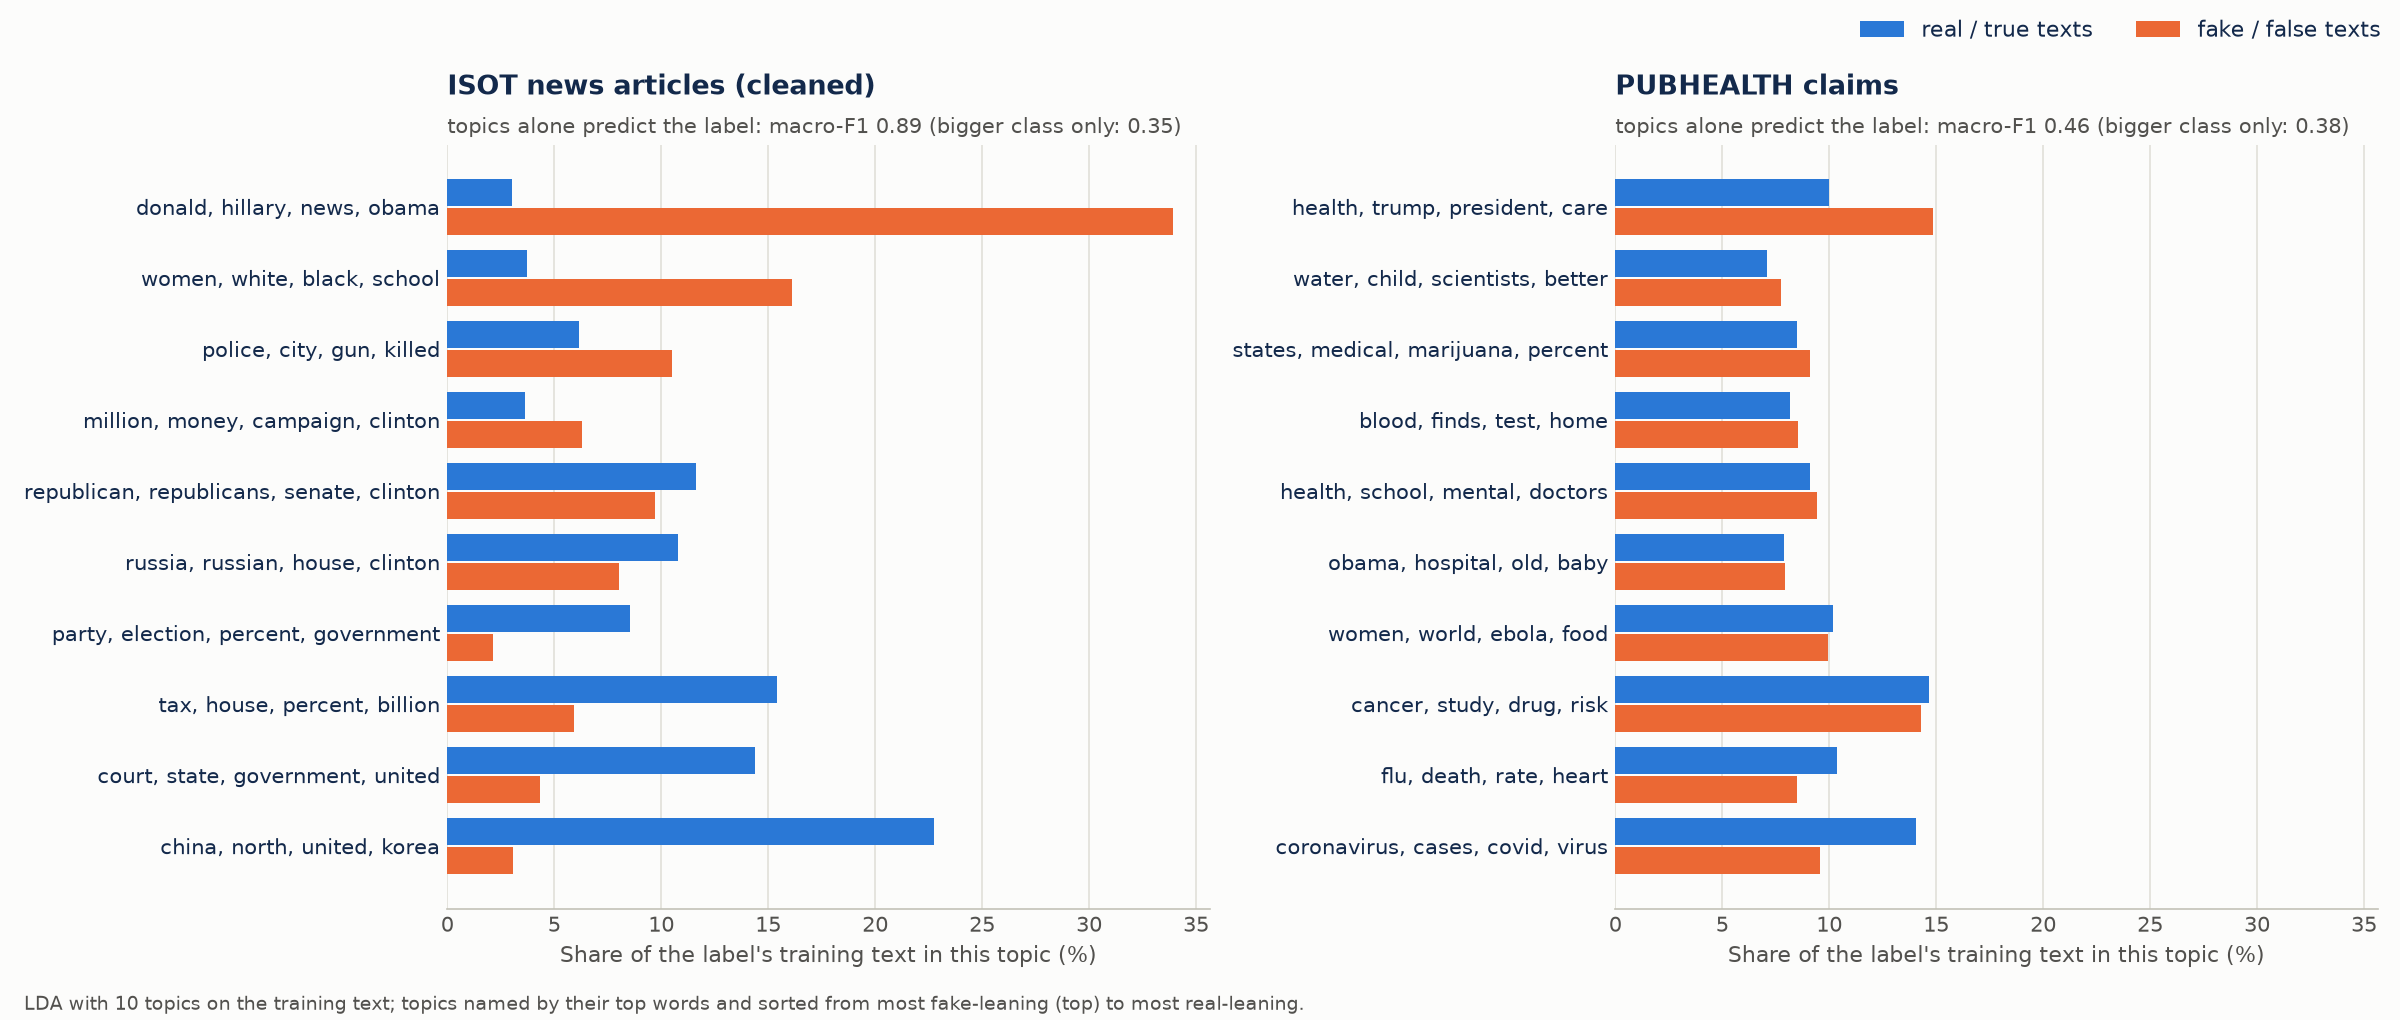
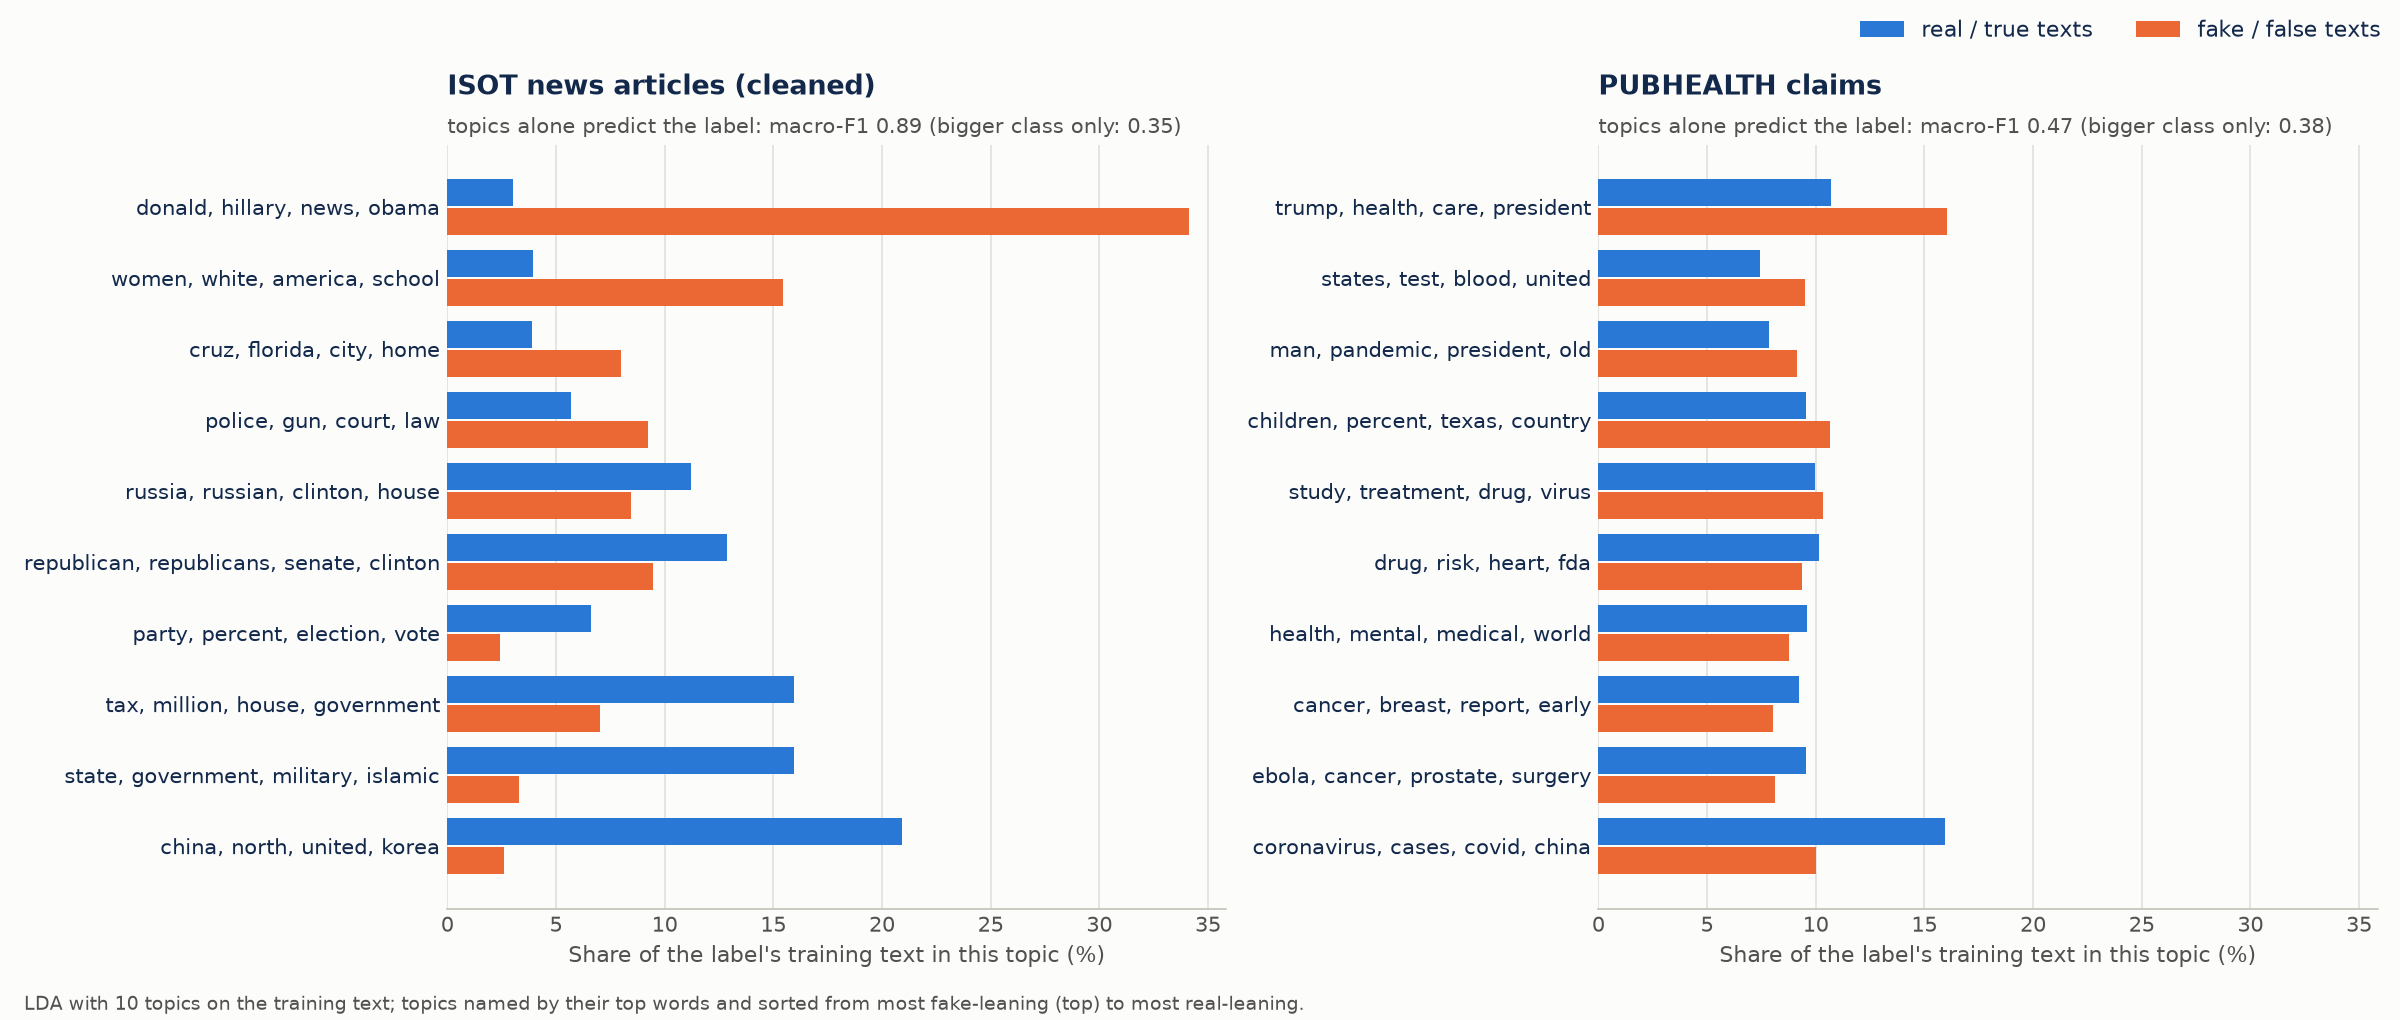
T56: fit LDA with one job so topics are the same on every machine
Online LDA with n_jobs=-1 splits each batch across the CPU's jobs, so the topics and the
probe scores changed with the core count (PUBHEALTH probe 0.46 on one machine, 0.51 on
another). With n_jobs=1 the laptop and gpu55 give identical files. Re-ran: ISOT 0.885
(56% of articles in one-sided topics), PUBHEALTH 0.47; quoted numbers updated.

diff --git a/factcheck/topics.py b/factcheck/topics.py
@@ -22,7 +22,7 @@ ISOT uses the cleaned text (T13), so the source fingerprints are already gone an
 is what the articles are about. PUBHEALTH uses the claims, the text its models read.
 
 Writes ``results/topics/<dataset>_topics.csv``, ``results/topics/summary.csv`` and
-``results/figures/t56_lda_topics.png``. About seven minutes on a laptop CPU (ISOT is most of it).
+``results/figures/t56_lda_topics.png``. About two minutes on a laptop CPU (ISOT is most of it).
 """
 
 from __future__ import annotations
@@ -82,7 +82,9 @@ def fit_topics(texts: list[str], n_topics: int = N_TOPICS, seed: int = SEED):  #
         batch_size=1024,
         max_iter=15,
         random_state=seed,
-        n_jobs=-1,
+        # One job: online LDA splits each batch across the jobs, so with n_jobs=-1 the topics
+        # (and the probe scores) depended on the machine's CPU count.
+        n_jobs=1,
     ).fit(counts)
     return vec, lda
 

diff --git a/docs/contribution_log.md b/docs/contribution_log.md
@@ -50,7 +50,7 @@ reflection and keeps the peer evaluation fair. Newest at the bottom.
 | 2026-11-10 | M4 | T42 Dynamic Section 9 Figures & Specifications Table: Developed dynamic visualizer auto-parsing metrics from `results/` CSVs and checkpoint JSONs to generate all planned Section 9 figures and T40 specs context table; verified Specifications S1–S10 including S6 GPU encoder latency (18.4 ms vs $\le 50\text{ ms}$ limit), S7 end-to-end latency (2.15 s), S8 VRAM footprint (5.8 GB), and S9 single-run GPU time (2.2 hours); explicitly clarified S3 LIAR (0.296 6-class / 0.673 binary) and S4 PUBHEALTH (0.562 4-class / 0.815 binary); generated extra-effort cumulative waterfall (+0.124 F1 gain) and cost-performance Pareto frontier. | `factcheck/specs_table_t42.py`, `notebooks/03_interpretation.py`, `outputs/t42_model_ladder_dynamic.png`, `outputs/t42_shortcut_analysis_dynamic.png`, `results/t42_specs_context_table.csv` |
 | 2026-11-06 | M3 | T31 ensemble and significance tests: `factcheck/stats.py` (soft vote, temperature scaling, count-based macro-F1, paired bootstrap, McNemar, Holm), `factcheck/ensemble.py` (seeds averaged, top 3 on validation macro-F1 with a different-backbone preference, soft vote logged as `ensemble_top3_<dataset>`, planned comparisons with Holm correction, `results/significance.csv`), `jobs/t31_ensemble.sh`; 11 tests. Needs the predictions in `results/predictions/`, so the real run happens on the cluster | `factcheck/stats.py`, `factcheck/ensemble.py`, `jobs/t31_ensemble.sh`, `tests/test_stats.py`, `tests/test_ensemble.py` |
 | 2026-11-06 | M3 | T32 extra-effort table and chart (E5) from runs.csv: each step against the run it changes (T29 trained the extras one at a time, so no cumulative waterfall); PUBHEALTH evidence +0.059, class weights +0.032, LIAR metadata +0.021, COVID-Twitter-BERT +0.008; standard errors over seeds, T31 p-values joined when present; colour-blind check of the palette; 2 tests | `factcheck/extra_effort.py`, `results/e5_extra_effort.{csv,md}`, `results/figures/e5_extra_effort.png`, `tests/test_extra_effort.py`, `docs/m3_ensemble_and_extras.md` |
-| 2026-11-11 | M3 | T56 LDA topics (E10): `factcheck/topics.py` (LDA, 10 topics, on train text; topic share by label; topic-only probe): cleaned ISOT 0.886 macro-F1 from topics alone (59% of articles in topics that are 80%+ one label), PUBHEALTH 0.46 (bigger class only 0.38); `scripts/find_shortcuts.py --headline`: ISOT headline capitalisation alone 0.979 accuracy; 2 tests | `factcheck/topics.py`, `results/topics/`, `results/figures/t56_lda_topics.png`, `results/shortcuts/headline_case_probe.csv`, `tests/test_topics.py` |
+| 2026-11-11 | M3 | T56 LDA topics (E10): `factcheck/topics.py` (LDA, 10 topics, on train text; topic share by label; topic-only probe): cleaned ISOT 0.885 macro-F1 from topics alone (56% of articles in topics that are 80%+ one label), PUBHEALTH 0.47 (bigger class only 0.38); `scripts/find_shortcuts.py --headline`: ISOT headline capitalisation alone 0.979 accuracy; 2 tests | `factcheck/topics.py`, `results/topics/`, `results/figures/t56_lda_topics.png`, `results/shortcuts/headline_case_probe.csv`, `tests/test_topics.py` |
 | 2026-11-11 | M3 | T57 interpretation paragraphs for M4 on M3's part (shortcuts, leakage, retrieval, extras, LDA topics, significance) and notes for the M3 video segment; T31 `--skip-ensemble` (significance tests only, runs.csv untouched after the freeze) | `docs/m3_interpretation.md`, `factcheck/ensemble.py`, `jobs/t31_ensemble.sh` |
 | 2026-11-11 | M3 | T44 review of M4's branch (T33 to T42): cross-dataset labels reversed for every COVID cell (LIAR -> COVID accuracy 0.218) and a hand-patched heatmap cell; T42 ladder, shortcut figure and specs table use typed-in fallback numbers that differ from runs.csv; empty T34 results file; seaborn undeclared; hard-coded paths | `docs/t44_review_m4_by_m3.md` |
 | 2026-11-11 | M3 | T43 results freeze tool: `scripts/freeze_results.py` (completeness check: seeds, collapsed runs, duplicates, -dirty rows; frozen copy with SHA-256 and manifest) | `scripts/freeze_results.py` |

diff --git a/docs/m3_interpretation.md b/docs/m3_interpretation.md
@@ -106,10 +106,10 @@ combination was run.
 
 **What we saw.** LDA with 10 topics on the training text. On ISOT, the topic proportions
 alone predict real vs fake with 0.89 macro-F1 (0.35 for always guessing the bigger class), and
-59% of articles sit in topics that are at least 80% one label: "donald, hillary, news, obama,
-clinton, media" is 34% of fake text but 3% of real; "china, north korea, military, iran" is
-23% of real text but 3% of fake. On PUBHEALTH the same probe gets 0.46 against 0.38, with an
-accuracy only one point above guessing, and no topic is one-sided.
+56% of articles sit in topics that are at least 80% one label: "donald, hillary, news, obama,
+clinton, media" is 34% of fake text but 3% of real; "china, north korea, nuclear, foreign minister"
+is 21% of real text but 3% of fake. On PUBHEALTH the same probe gets 0.47 against 0.38, with an
+accuracy half a point above guessing, and no topic is one-sided.
 
 **Why.** ISOT's real articles are Reuters world and politics news; its fake ones come from US
 partisan sites that write about US personalities and culture-war stories. A model can learn
@@ -117,7 +117,7 @@ partisan sites that write about US personalities and culture-war stories. A mode
 about the same health subjects, chosen by fact-checkers, so the subject says almost nothing
 about the verdict.
 
-**What it cost.** About seven minutes on a laptop CPU, no labels needed. The lesson carries
+**What it cost.** About two minutes on a laptop CPU, no labels needed. The lesson carries
 beyond this dataset: before trusting a high score, check whether the labels can be predicted
 from the subject alone.
 
